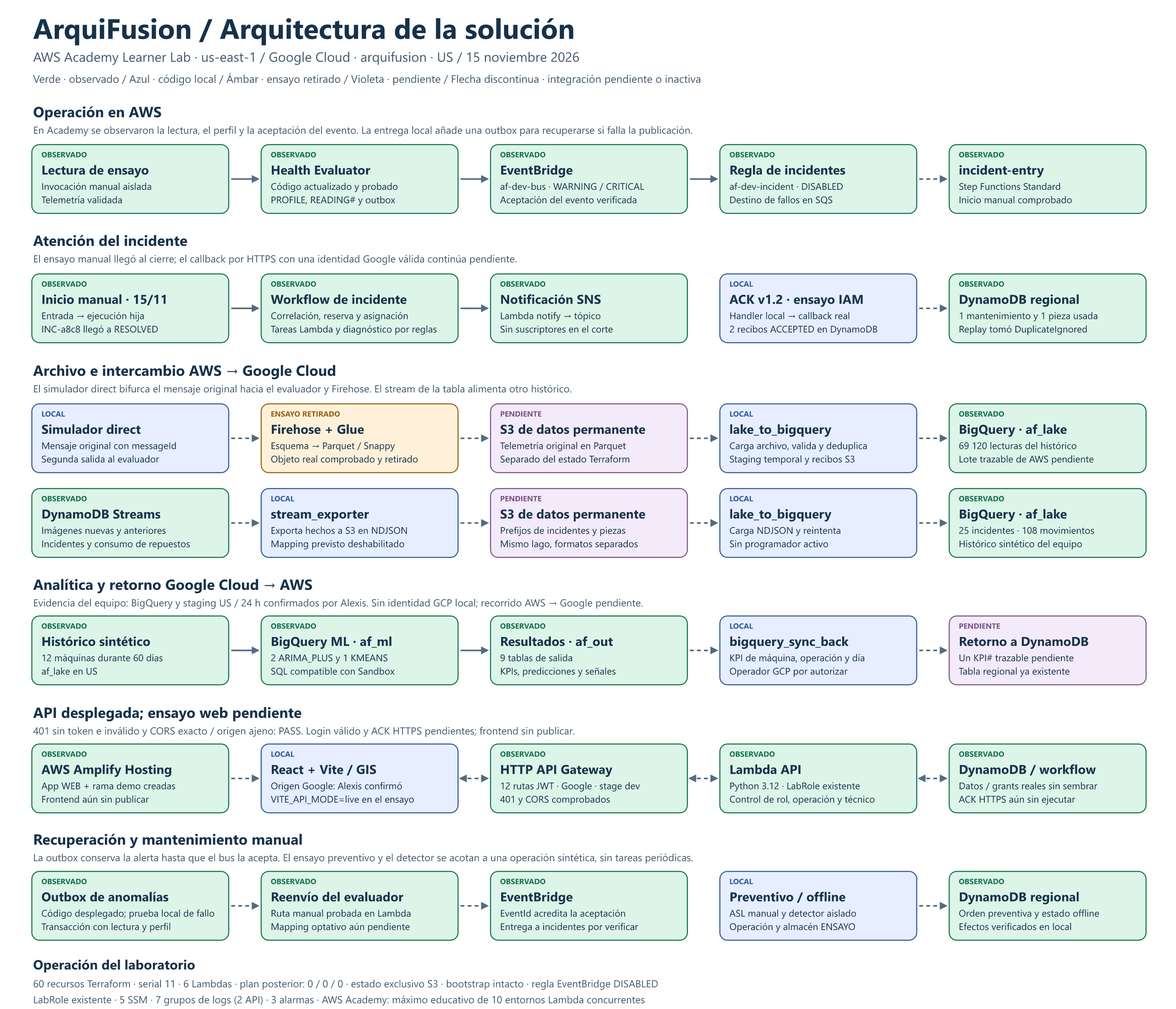
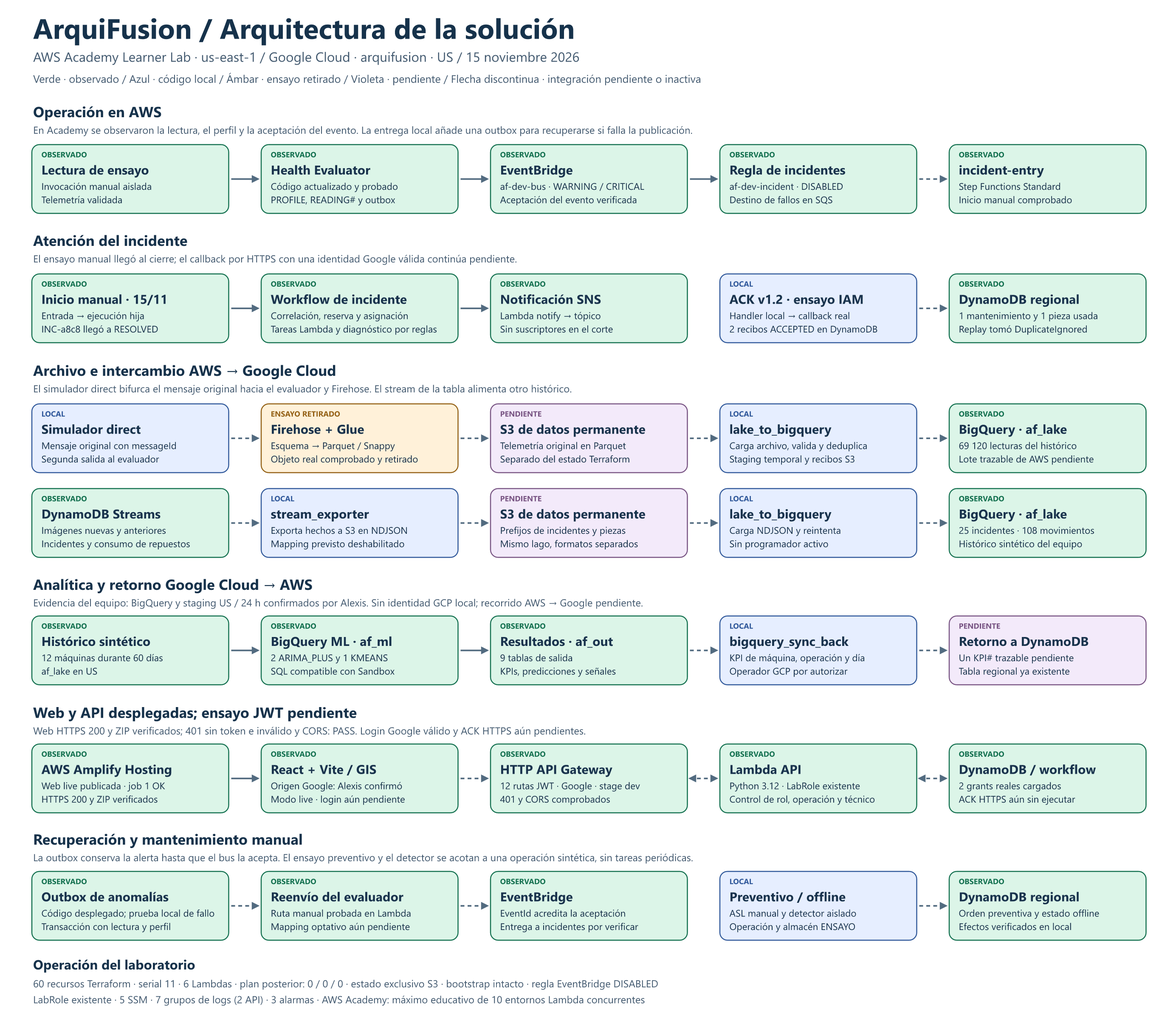
docs: reconcile live hosting and loaded demo participants

Changed region(s): [[0.0311, 0.6852, 0.4659, 0.7475], [0.2174, 0.7786, 0.3416, 0.8098], [0.0311, 0.7786, 0.1242, 0.8098]]

diff --git a/infra/hosting/release_live.py b/infra/hosting/release_live.py
@@ -201,7 +201,7 @@ def main():
     parser = argparse.ArgumentParser(description=__doc__)
     parser.add_argument("action", choices=["check", "prepare", "probe"])
     parser.add_argument("--terraform", default=shutil.which("terraform"))
-    parser.add_argument("--operation", default="MINA-NORTE")
+    parser.add_argument("--operation", default="ENSAYO-0001")
     parser.add_argument("--output", type=Path, default=ROOT / "build/readiness-20261115/web/live-release")
     parser.add_argument(
         "--send", action="store_true", help="Perform only the GET/OPTIONS probes; no token or POST is accepted"

diff --git a/docs/cierre-rol1-2026-11-15.md b/docs/cierre-rol1-2026-11-15.md
@@ -18,9 +18,11 @@ La aplicación partió de **29 recursos administrados**, serial 9. Después del 
 
 `main` en `09e4eff` pasó su [CI](https://github.com/alxgr-08/arquifusion/actions/runs/43752500505). [Explicación del cierre de #50](https://github.com/alxgr-08/arquifusion/pull/50#issuecomment-6899998693) · [Aviso final al equipo](https://github.com/alxgr-08/arquifusion/pull/54#issuecomment-6900125062)
 
+La continuación está publicada en el [PR #55](https://github.com/alxgr-08/arquifusion/pull/55), rama `infra/rol1-cierre-demo`. El primer corte `f9cdf115` pasó [CI Python/frontend](https://github.com/alxgr-08/arquifusion/actions/runs/43755932818) y [Terraform/paquetes Linux](https://github.com/alxgr-08/arquifusion/actions/runs/43755932793). Los siguientes commits deben conservar ese resultado en la cabeza del PR. El [comentario de coordinación](https://github.com/alxgr-08/arquifusion/issues/23#issuecomment-6900497358) mantiene las acciones del equipo.
+
 ## API: aplicación y comprobaciones posteriores completadas
 
-**APPLY COMPLETADO — código de salida 0.** Resultado real: **31 added, 0 changed, 0 destroyed**. URL: `https://8wrfp8ncbh.execute-api.us-east-1.amazonaws.com/dev`. Las consultas posteriores de AWS y HTTP pasaron. Un token Google válido y los callbacks ARRIVED/RESOLVED aún no se han ensayado: no están sembrados los datos y las concesiones reales.
+**APPLY COMPLETADO — código de salida 0.** Resultado real: **31 added, 0 changed, 0 destroyed**. URL: `https://8wrfp8ncbh.execute-api.us-east-1.amazonaws.com/dev`. Las consultas posteriores de AWS y HTTP pasaron. Los datos y las dos concesiones reales ya están cargados; falta que los participantes prueben su login Google y los callbacks ARRIVED/RESOLVED por HTTPS.
 
 El usuario autorizó aplicar **exclusivamente**:
 
@@ -37,7 +39,7 @@ Las altas son HTTP API, authorizer Google, Lambda API Python 3.12/`LabRole`, int
 
[1 lines of base64/hex data omitted]
 
-La revisión independiente confirmó 31/0/0 y 29 no-op antes de aplicar. El perfil público está en `infra/aws/api/ensayo-0001.tfvars.example`; un archivo de variables no concede autorización por sí solo. La aprobación actual no se extiende a datos, grants, publicación del frontend, lago, cargas BigQuery, retornos o simuladores.
+La revisión independiente confirmó 31/0/0 y 29 no-op antes de aplicar. El perfil público está en `infra/aws/api/ensayo-0001.tfvars.example`; un archivo de variables no concede autorización por sí solo. La aprobación inicial se limitó a la API. Posteriormente Leonardo aportó el archivo de participantes y pidió asumir la continuación, detener el otro chat y completar esa etapa. Se conciliaron la siembra/publicación ya realizadas y se crearon únicamente los dos grants faltantes. El lago, cargas BigQuery, retornos y nuevos simuladores conservan su revisión separada.
 
 AWS CLI confirmó Lambda Active/Successful, Python 3.12, `arn:aws:iam::975050277936:role/LabRole`, las dos variables esperadas sin bypass de autenticación, doce rutas JWT y doce permisos limitados por cuenta/API/stage/método/ruta. El authorizer tiene el issuer/audience acordados; la integración usa payload 2.0 y el stage limita a una solicitud por segundo con ráfaga de cuatro. DynamoDB sigue ACTIVE con protección de borrado.
 
@@ -52,6 +54,8 @@ Estas solicitudes no enviaron POST, tokens reales ni datos de usuarios; el gatew
 
[1 lines of base64/hex data omitted]
 
[1 lines of base64/hex data omitted]
+
 Los planes alternativos anteriores quedaron obsoletos tras esta aplicación. `plan_stage.py` se bloquea deliberadamente si espera 29 recursos y encuentra el inventario nuevo; no rebajar esa guarda ni aplicar el plan anterior para eludirla. La próxima planificación debe usar la base comprobada de 60 recursos y conservar las opciones API y hosting del perfil público de ensayo. El archivo local `infra/aws/api-open.auto.tfvars.json` conserva esos valores y está ignorado por Git; un checkout nuevo debe pasar explícitamente el perfil revisado.
 
 ## Dependencias que ya se resolvieron
@@ -59,7 +63,7 @@ Los planes alternativos anteriores quedaron obsoletos tras esta aplicación. `pl
 | Dependencia | Estado actual y evidencia |
 |---|---|
 | Origen Google | Alexis confirmó `https://demo.d2ygcm34t8aku9.amplifyapp.com` en el cliente web existente; conserva localhost para desarrollo. [Confirmación #41](https://github.com/alxgr-08/arquifusion/issues/41#issuecomment-6897046368) |
-| Hosting base | Aplicación Amplify `d2ygcm34t8aku9`, rama manual `demo`, ya creada y con HTTPS observado. **El frontend no está publicado.** |
+| Hosting | Aplicación Amplify `d2ygcm34t8aku9`, rama manual `demo`, con frontend live publicado y HTTPS observado. Job 1 SUCCEED; se cotejaron index y módulo de entrada con el ZIP preparado. |
 | Polling | #51 está integrado; el bloqueo de frecuencia anterior quedó corregido. Sigue siendo necesario observar 429/concurrencia con un usuario en el ensayo. |
 | Semillas de operación | #52 incorporó `seed_ensayo.py`, `conditional_seed.py` y metadata para la web, sin reemplazos ni SSM por defecto. Son herramientas; su integración no demuestra que se hayan ejecutado en esta cuenta. |
 | SQL de retorno | #53 está integrado y el paquete local se reconstruyó con la corrección. |
@@ -68,17 +72,25 @@ Los planes alternativos anteriores quedaron obsoletos tras esta aplicación. `pl
 
 La confirmación del propietario de staging no equivale a acceso de Leonardo. Su CLI local tiene cero cuentas activas, no hay ADC en la ubicación configurada ni variable explícita de credenciales. No se abrieron contenidos de credenciales ni se utilizaron llaves privadas. El perfil Terraform de staging ahora mantiene `enable_bridge_staging=false`; no recrear ni adoptar/importar el dataset existente sin coordinación y autorización.
 
-## ENSAYO-0001: preparado, todavía no sembrado
+## ENSAYO-0001: datos conciliados y dos participantes cargados
 
-El kit está en `build/cierre-demo-20261115/ensayo-0001/`, fuera de Git. Usa máquina `ENS-0001`, técnico `T-E0001`, zona `ZE` y almacén `WH-E0001`. Contiene siete filas previstas: metadata, zona, almacén, ajustes, perfil de máquina, perfil de técnico y una concesión **sintética local**. El preflight de lectura del corte devolvió **7 WOULD_CREATE y 0 conflictos**. No se aplicó la semilla y esa lectura debe repetirse antes de una futura escritura.
+El kit está en `build/cierre-demo-20261115/ensayo-0001/`, fuera de Git. Usa máquina `ENS-0001`, técnico `T-E0001`, zona `ZE` y almacén `WH-E0001`. Contiene siete filas: metadata, zona, almacén, ajustes, perfil de máquina, perfil de técnico y una concesión sintética. La primera lectura devolvió 7 WOULD_CREATE; una ejecución paralela las creó. Al asumir la continuación se comprobaron **7 SAME, sin conflictos**, y no se repitió la siembra.
 
-El grant sintético no concede acceso a una persona Google. Los grants reales siguen sin cargar. Alexis indicó que conserva fuera del repositorio el archivo de participantes: MAINT_LEAD y Sebastián como TECHNICIAN `T-E0001`; Leonardo debe aportar su propio `sub` si participará como SUPERVISOR. Se comparte únicamente el identificador estable por un canal privado, nunca JWT, access/refresh token o task token. [Coordinación del caso](https://github.com/alxgr-08/arquifusion/pull/50#issuecomment-6898009823)
+El grant sintético no concede acceso a una persona Google. Leonardo entregó la ruta privada del archivo de participantes. Su validación confirmó **dos grants distintos**: MAINT_LEAD y TECHNICIAN para `T-E0001`, ambos de `ENSAYO-0001`. Se crearon juntos mediante TransactWriteItems con condiciones de ausencia y se releyeron consistentemente: **2 creados, 0 sobrescritos, 0 eliminados**. Request ID: `8JTOBPIIUNGJOCOR2FGOF6NQP3VV4KQNSO5AEMVJF66Q9ASUAAJG`. No se modificaron roles IAM ni permisos de otras operaciones.
+
[1 lines of base64/hex data omitted]
+
+El archivo no incluye SUPERVISOR. Leonardo necesita aportar su propio `sub` si desea ese acceso; no se inventó ni reutilizó el de Alexis. [Coordinación del caso](https://github.com/alxgr-08/arquifusion/pull/50#issuecomment-6898009823)
 
 `preflight_web_demo.py` valida offline las siete claves, la operación/almacén, el filtro de stock aislado y la forma de los grants reales; rechaza plantillas incompletas sin imprimir identidades. No siembra ni consulta AWS. `seed_ensayo.py` permanece en dry-run sin `--apply`. El ensayo autorizado posterior debe mantener un solo caso en vuelo, no reutilizar máquinas de otros proyectos ni borrar historiales.
 
-## Frontend live preparado, sin publicación
+## Frontend live publicado y conciliado
 
[2 lines of base64/hex data omitted]
+
+La otra ejecución publicó la rama manual con **job 1 SUCCEED a las 15:06 de Lima**. Se detuvieron las acciones duplicadas y el otro chat quedó idle/interrumpido por pedido de Leonardo. El cotejo propio devolvió HTTPS 200 y confirmó que index.html y el módulo de entrada servido tienen los mismos bytes que el ZIP preparado. Ese módulo contiene la URL real, operación y Client ID acordados. No se creó un segundo job ni se volvió a sembrar el kit.
+
+La comprobación del navegador mostró **ArquiFusion Fleet Intelligence**, el mensaje de acceso y el botón Google renderizado. No se inició sesión ni se leyeron tokens. La URL para el equipo es **https://demo.d2ygcm34t8aku9.amplifyapp.com**.
 
 El primer intento detectó que el test de autenticación construía un supuesto token válido sin `aud`; fallaba al ejecutar las pruebas con el Client ID configurado. Se corrigió **solo el test**, aislando su configuración y usando audiencia explícita. `auth.ts` conserva el rechazo. Se añadieron comprobaciones de audiencia ausente/ajena y del margen exacto de expiración. Las **22 pruebas frontend pasaron en normal y live**, y TypeScript/Vite construyeron el paquete real. El intento fallido se conserva en `web-live/` para no ocultar el diagnóstico.
 
@@ -91,7 +103,7 @@ El primer intento detectó que el test de autenticación construía un supuesto 
[2 lines of base64/hex data omitted]
 
-El retorno nuevo pasó CRC, vinculación de fuentes, doce pruebas de servicio offline y smoke de fuentes Windows. El subconjunto KPI/relay pasó diez pruebas que se solapan con la suite; no se suman como 22 distintas. El entorno local no ejecutó un smoke nativo Linux; la CI del PR construye e importa los tres paquetes en Linux CPython 3.12 y debe revisarse su resultado. No se desplegaron los paquetes del puente ni se ejecutó un retorno real en esta preparación.
+El retorno nuevo pasó CRC, vinculación de fuentes, doce pruebas de servicio offline y smoke de fuentes Windows. El subconjunto KPI/relay pasó diez pruebas que se solapan con la suite; no se suman como 22 distintas. La CI Terraform enlazada confirmó la construcción y la importación nativa de los tres ZIP en **Linux x86_64 CPython 3.12**, con los mismos hashes locales. No se desplegaron los paquetes del puente ni se ejecutó un retorno real en esta preparación.
 
 La ruta de telemetría es simulador direct → Firehose/Glue → S3 Parquet → BigQuery. Streams exporta incidentes y consumo de repuestos. No se empaquetan PyArrow/pandas en Lambda. El ensayo temporal previo probó Parquet real, pero **el lago permanente sigue sin crear y sus recursos nuevos no están aprobados en esta autorización**. La propuesta del bucket y el futuro plan del lago conservan su revisión separada.
 
@@ -119,21 +131,21 @@ python infra/hosting/release_live.py probe --operation ENSAYO-0001 --terraform <
 
 La primera invocación agrupada de pruebas Python mezcló dos módulos `handler` de servicios y produjo cinco fallos de importación. La suite de BigQuery separada pasó; el runner del repositorio ya utiliza procesos independientes. No se cambió código de producción para ocultar ese conflicto del comando de pruebas.
 
-No atribuir a esta etapa un login Google real, siembra, callback HTTP válido, publicación web, nueva carga BigQuery, entrenamiento, entrega automática de EventBridge o recepción humana SNS. Un evento aceptado por el bus, un callback IAM local y un token validado por Gateway son evidencias diferentes.
+No atribuir a esta etapa un login Google real, callback HTTP válido, nueva carga BigQuery, entrenamiento, entrega automática de EventBridge o recepción humana SNS. La siembra/publicación ya se conciliaron y los dos grants se cargaron. Un evento aceptado por el bus, un callback IAM local y un token validado por Gateway son evidencias diferentes.
 
 ## Reparto actual y siguiente acción
 
 | Integrante | Completado | Pendiente exacto | Dependencia | Próxima acción | Referencia |
 |---|---|---|---|---|---|
-| Leonardo | IaC integrada, hosting base, API aplicada/verificada, 60 recursos sin drift, ZIP live y preflight preparados | Publicación web, siembra aprobada y plan nuevo del lago/puente sobre la base de 60 | Concesiones reales, sesión Academy vigente y aprobación específica de cada escritura restante | Revisar el ZIP de hash F996DDBE… y archivo de participantes; repetir preflight antes de sembrar | API README, perfil ENSAYO-0001, este relevo |
-| Sebastián | Backend/ASL y semillas condicionales integrados; metadata de operación preparada | Verificar participantes y técnico del caso, revisar semilla/grants y participar en ARRIVED/RESOLVED por web | API real, concesiones correctas y autorización del ensayo | Repetir preflight; acordar la carga condicional y confirmar un solo mantenimiento/consumo | #52, scripts/seed_ensayo.py, ensayo-lab |
-| Alexis | Origen Google confirmado, polling corregido, staging US/24h reportado, SQL #53 y consultas #54 integrados | Habilitar acceso del operador común a GCP o acordar división manual; entregar/verificar grants privados y generar KPI del mismo caso | Permisos reales, lectura AWS autorizada/cargada y sesión de los participantes | Confirmar operador y preflight de GCP; validar frontend live cuando se publique | #41, comentarios de #50, #51/#53/#54 |
+| Leonardo | IaC integrada, API aplicada/verificada, web live publicada/conciliada, siete filas SAME y dos grants reales cargados | Ensayo HTTP autenticado, su eventual grant SUPERVISOR y plan nuevo del lago/puente sobre la base de 60 | Login de participantes, su propio sub si participará, acceso GCP y aprobación del siguiente ensayo | Conservar los datos; coordinar un caso manual y preparar el plan del lago con la base actual | API README, perfil ENSAYO-0001, este relevo |
+| Sebastián | Backend/ASL y semillas integrados; datos y grant TECHNICIAN del caso disponibles | Iniciar sesión con su cuenta y participar en ARRIVED/RESOLVED por web | Incidente sintético iniciado en una etapa aprobada y asignado a T-E0001 | Verificar acceso, ETag y dos confirmaciones; comprobar un solo mantenimiento/consumo según el caso | #52, scripts/seed_ensayo.py, ensayo-lab |
+| Alexis | Origen Google, frontend publicado, grant MAINT_LEAD cargado, staging US/24h reportado y SQL integrado | Probar login/vista live y habilitar acceso GCP del operador común o acordar división manual; generar KPI del mismo caso | Permisos reales y lectura AWS autorizada/cargada | Entrar por la URL HTTPS y confirmar operador/preflight de GCP | #41, comentarios de #50, #51/#53/#54 |
 
 ## Orden seguro para cerrar la demo
 
 1. API y estado posterior ya verificados. Mantener la regla deshabilitada y los hashes del bootstrap intactos.
-2. Revisar la semilla y los grants reales de `ENSAYO-0001`; requieren su propia aprobación de escritura. Un 200 con lista vacía antes de sembrar no demuestra un fallo de infraestructura.
-3. El ZIP live ya está construido con URL real y hash registrado. Revisar y autorizar su publicación manual en la app/rama existentes; no activar builds automáticos.
+2. Datos del kit y dos grants ya disponibles. No volver a ejecutar los seed como si estuvieran ausentes. Si Leonardo participará como SUPERVISOR, revisar su identidad y concesión por separado.
+3. La web ya está publicada. Mantener los builds automáticos apagados y no crear otro job para repetir el mismo ZIP.
 4. Ejecutar el ensayo Google/JWT y de autorización por operación/técnico. Comprobar 401/403/412, repetición y recuperación de respuestas perdidas; después ARRIVED/RESOLVED sin duplicaciones.
 5. Revisar por separado el bucket y el plan del lago, luego el puente, una lectura trazable y el KPI del mismo caso. Usar las sesiones autorizadas y mantener la identidad y recibos originales ante un reintento.
 6. Actualizar evidencias y diagrama con lo realmente observado y grabar el video del recorrido aprobado. El histórico sintético y la nueva lectura se rotulan por separado.

diff --git a/docs/checklist-web-2026-11-15.md b/docs/checklist-web-2026-11-15.md
@@ -1,10 +1,14 @@
-# Web live y autenticación · preparación del 15/11/2026
+# Web live y autenticación · checklist verificado el 15/11/2026
 
 ## Qué está disponible
 
-AWS Academy Learner Lab, perfil `default`, región `us-east-1`. El hosting manual ya tiene la aplicación `d2ygcm34t8aku9`, rama `demo`, y origen `https://demo.d2ygcm34t8aku9.amplifyapp.com`. No está publicado el frontend. La aplicación comparte cuenta con otros proyectos y el curso limita la cuenta a diez entornos Lambda concurrentes. El ensayo será de un usuario y un incidente sintético. EventBridge debe permanecer `DISABLED`.
+AWS Academy Learner Lab, perfil `default`, región `us-east-1`. El frontend live está publicado en la aplicación `d2ygcm34t8aku9`, rama manual `demo`, y origen `https://demo.d2ygcm34t8aku9.amplifyapp.com`. La aplicación comparte cuenta con otros proyectos y el curso limita la cuenta a diez entornos Lambda concurrentes. El ensayo será de un usuario y un incidente sintético. EventBridge debe permanecer `DISABLED`.
 
-El plan de API preparado conserva los 29 recursos actuales y añade las doce rutas JWT del dashboard con endpoint cerrado. La web usa GIS y el JWT nativo de API Gateway, sin Cognito. El Client ID público real procede de #41; el rol y la operación proceden de registros DynamoDB confiables, nunca del selector de rol del navegador.
+La API HTTP ya está desplegada en `https://8wrfp8ncbh.execute-api.us-east-1.amazonaws.com/dev`, con el endpoint habilitado y las doce rutas protegidas por JWT. El cotejo de metadatos confirmó el emisor Google, la audiencia acordada y CORS para el origen exacto de Amplify. La web usa GIS y el JWT nativo de API Gateway, sin Cognito. El rol y la operación proceden de registros DynamoDB confiables, nunca del selector de rol del navegador.
+
+El corte de las 14:59 (Lima) registró los datos y la web pendientes. Después otra ejecución sembró las siete filas y publicó Amplify job 1, SUCCEED a las 15:06. Al asumir la continuación se comprobaron 7 SAME y que index/entrada JavaScript son idénticos al ZIP live revisado. Se crearon únicamente los dos grants faltantes en una transacción condicional y se verificó su contenido. La pantalla pública renderiza ArquiFusion y el botón Google. El login de los participantes y los callbacks HTTPS siguen pendientes. [Evidencia actual y coordinación](cierre-rol1-2026-11-15.md)
+
+La operación acordada es **`ENSAYO-0001`**. Alexis participará como `MAINT_LEAD` y Sebastián como `TECHNICIAN`, asignado a `T-E0001`. Leonardo solo tendrá acceso como `SUPERVISOR` cuando se prepare y cargue su concesión; el mensaje del compañero no concede ese rol. [Acuerdo de participantes y operación](https://github.com/alxgr-08/arquifusion/issues/23#issuecomment-6898434990)
 
 ## Preparación local de Leonardo
 
@@ -19,19 +23,19 @@ Comandos desde la raíz, sustituyendo `terraform` por la ruta del ejecutable si 
 ```powershell
 python infra/hosting/release_live.py check
 # Después de crear la API, para la operación cuya concesión se haya preparado:
-python infra/hosting/release_live.py prepare --operation MINA-NORTE --terraform terraform
-python infra/hosting/release_live.py probe --operation MINA-NORTE --terraform terraform
+python infra/hosting/release_live.py prepare --operation ENSAYO-0001 --terraform terraform
+python infra/hosting/release_live.py probe --operation ENSAYO-0001 --terraform terraform
 ```
 
 El directorio `build/readiness-20261115/web/` guarda evidencia local y queda excluido de Git. El build de comprobación sin una URL real se ejecuta en modo `mock`, se identifica como validación y no se publica. No se entrega un ZIP live con una URL inventada.
 
 ## Condiciones antes de publicar
 
-1. Leonardo autoriza y despliega el plan cerrado de la API; conserva 29 recursos previos y la regla deshabilitada.
-2. Alexis confirma en #41 que el origen exacto de Amplify está en **Authorized JavaScript origins** del cliente Google. No requiere intercambiar secretos OAuth.
-3. Sebastián revisa las concesiones de las personas de la demo para la operación acordada. Un TECHNICIAN debe tener `techId` y estar asignado al incidente. Cada persona usa su propia identidad Google.
-4. Leonardo revisa y autoriza un plan explícito de apertura y luego la publicación del ZIP cuyo hash figura en el manifiesto. Configurar el build `live` con la URL real que incluye `/dev`.
-5. Confirmar desde HTTPS carga de assets, navegación SPA y ausencia de errores de GIS/CORS. Google exige el mismo origen de navegador que se registró.
+1. Completado: API desplegada con endpoint habilitado y doce rutas JWT; la regla de incidentes sigue deshabilitada. No repetir el plan anterior como si la API aún no existiera.
+2. Completado: Alexis confirmó en #41 el origen exacto de Amplify en **Authorized JavaScript origins** del cliente Google. [Confirmación](https://github.com/alxgr-08/arquifusion/issues/41#issuecomment-6897046368)
+3. Completado: siete filas y dos grants de `ENSAYO-0001`. TECHNICIAN está vinculado a `T-E0001`; la asignación de un incidente se comprueba al iniciar el caso. Cada persona usa su identidad Google. El grant sintético del kit no permite login Google.
+4. Completado: ZIP live con la API `/dev`, `VITE_OPERATION_ID=ENSAYO-0001` y hash F996DDBE… publicado; no repetir el job ni activar builds automáticos.
+5. HTTPS, index/entrada y botón Google observados. Falta navegación con sesión real y revisión de GIS/CORS durante ese login.
 
 ## Ensayo de autenticación y autorización
 
@@ -45,15 +49,17 @@ El directorio `build/readiness-20261115/web/` guarda evidencia local y queda exc
 | CORS del origen aprobado | Preflight permite GET/POST, Authorization, Content-Type e If-Match. El navegador puede leer ETag y Retry-After en las respuestas de la API. |
 | Origen ajeno | No recibe cabecera Access-Control-Allow-Origin. CORS no sustituye a JWT ni grants. |
 
-Después de abrir la API con autorización, se pueden ejecutar los GET/OPTIONS del probe y guardar solo códigos HTTP, CORS y request IDs:
+Con la API ya desplegada, se pueden ejecutar los GET/OPTIONS del probe y guardar solo códigos HTTP, CORS y request IDs:
 
 ```powershell
-python infra/hosting/release_live.py probe --operation MINA-NORTE --terraform terraform --send
+python infra/hosting/release_live.py probe --operation ENSAYO-0001 --terraform terraform --send
 ```
 
 ## Ensayo del acuse, con escritura autorizada
 
 El kit de Sebastián prepara un único incidente sintético. No reutilizar máquinas o stock compartido. Los POST y las siembras de datos quedan fuera del probe de lectura y requieren la etapa de ensayo autorizada. [Runbook HTTP](../infra/aws/api/ensayo.md) · [Contrato v1.2](../contracts/api.md)
+
+Para acreditar **un consumo real de pieza** hace falta el caso 2: incluir `--with-stock` al revisar/autorizar la siembra (octava fila, una unidad de `BRG-SPH-22` en `WH-E0001`) y usar `anomaly-caso2-rodamiento.json`. La siembra básica de siete filas y el caso 1 de vibración no acreditan ese consumo. [Preparación del caso 2](ensayo-lab/README.md#caso-2-descuento-real)
 
 1. Entrar desde la web con Google, leer el detalle y conservar el ETag fuerte de la espera observada. Registrar solo códigos y IDs de solicitud; mantener JWT, task tokens y cuerpos privados fuera de logs, capturas e issues.
 2. Confirmar ARRIVED con ese ETag. Repetir un clic idéntico y comprobar un único recibo/efecto. Para RESOLVED volver a leer la nueva espera y usar su nuevo ETag.
@@ -62,12 +68,14 @@ El kit de Sebastián prepara un único incidente sintético. No reutilizar máqu
 5. Si se agotaron los intentos, conservar el incidente y los recibos y revisar la evidencia certificada del workflow. No interpretar una ejecución fallida como aceptación del acuse. La reconciliación debe confirmar el efecto antes de informar éxito.
 6. Tras RESOLVED comprobar un mantenimiento, un consumo por pieza, liberación de técnico y máquina y un ARRIVED/RESOLVED en el timeline. El caso de respuesta perdida se cubre primero en pruebas locales y después mediante un ensayo de fallo acordado, sin interrumpir recursos ajenos.
 
-La pantalla de máquina hace polling cerca de una solicitud por segundo; el stage limita a una por segundo y ráfaga de cuatro. Comprobar 429 con un usuario antes de aumentar tráfico. Ese throttling no impone por sí solo el límite educativo de concurrencia Lambda.
+El polling live se redujo cinco veces mediante #51; el stage limita a una solicitud por segundo y ráfaga de cuatro. Comprobar 429 con un usuario antes de aumentar tráfico. Ese throttling no impone por sí solo el límite educativo de concurrencia Lambda.
 
 ## Pendientes de cada rol
 
-- Leonardo: creación/apertura de API por planes aprobados, generación del ZIP con URL real, publicación autorizada y evidencia por HTTPS.
-- Alexis: confirmar el origen Google y validar la vista live. Su frontend y contratos permanecen intactos en esta preparación.
-- Sebastián: revisar la concesión y técnico real de demo y participar en las dos confirmaciones. Su backend permanece intacto.
+- Leonardo: API y web verificadas, kit conciliado y grants creados; coordinar el ensayo autenticado y el siguiente plan del lago/puente. Su grant SUPERVISOR aún no existe.
+- Alexis: origen Google y grant disponibles; iniciar sesión y validar la vista live como `MAINT_LEAD`. La corrección local del test de audiencia conserva `auth.ts` intacto.
+- Sebastián: grant del técnico `T-E0001` cargado; iniciar sesión y participar en las dos confirmaciones del caso autorizado. Su backend permanece intacto.
 
-El check local, tests y build no acreditan login válido, CORS de la API desplegada, callbacks HTTPS ni una publicación web. Esas evidencias siguen pendientes de las etapas anteriores.
+El check local, tests y build no acreditan login válido, CORS observado desde el navegador con sesión Google, callbacks HTTPS ni una publicación web. Los metadatos de la API confirman su configuración; esas evidencias de usuario siguen pendientes.
+
+El puente AWS → BigQuery → AWS conserva su ensayo real pendiente. Mostrar cada nube por separado es la alternativa ya prevista en [el guion, minuto 3:45](pitch.md); no acredita el intercambio bidireccional del diseño. Suprimir ese intercambio de la entrega sería un recorte de alcance que debe declararse, no una prueba del puente.

diff --git a/infra/hosting/README.md b/infra/hosting/README.md
@@ -1,6 +1,6 @@
 # Hosting de la SPA
 
-Amplify Hosting ya tiene la aplicación `af-dev-arquifusion-web` (`d2ygcm34t8aku9`) y su rama manual `demo` en AWS Academy, `us-east-1`. El origen es `https://demo.d2ygcm34t8aku9.amplifyapp.com`. La publicación del frontend y el registro de ese origen en Google siguen pendientes. Para un despliegue manual se entrega un ZIP con index.html y assets en la raíz, y una reescritura de rutas de la SPA hacia /index.html. [Arquitectura](../../docs/arquitectura.md) · [Despliegues manuales de Amplify](https://docs.aws.amazon.com/amplify/latest/userguide/manual-deploys.html)
[1 lines of base64/hex data omitted]
 
 ## Preparación live sin publicar
 
@@ -9,7 +9,7 @@ Amplify Hosting ya tiene la aplicación `af-dev-arquifusion-web` (`d2ygcm34t8aku
 ```powershell
 python infra/hosting/release_live.py check
 # Cuando exista la salida real incident_api_base_url del API desplegado:
-python infra/hosting/release_live.py prepare --operation MINA-NORTE --terraform terraform
+python infra/hosting/release_live.py prepare --operation ENSAYO-0001 --terraform terraform
 ```
 
 Si Terraform no está en PATH, pasar su ruta absoluta mediante `--terraform`. La herramienta no inventa una URL ni genera un ZIP live con un placeholder. El directorio de salida predeterminado es `build/readiness-20261115/web/live-release`, excluido de Git, y debe ser nuevo. `release.json` contiene solo configuración pública, SHA-256 y las condiciones pendientes de publicación. Crear el ZIP es local y no demuestra que el endpoint esté abierto, que Google tenga el origen o que el usuario tenga una concesión.
@@ -17,9 +17,9 @@ Si Terraform no está en PATH, pasar su ruta absoluta mediante `--terraform`. La
 El subcomando `probe` prepara por defecto cuatro solicitudes sin enviarlas. Después de abrir la API con un plan autorizado, `--send` comprueba dos GET sin identidad válida (401) y dos preflights OPTIONS para el acuse, con origen permitido y ajeno. No acepta tokens reales, no ejecuta POST, no sigue redirecciones ni lee cuerpos de respuesta. Los callbacks y el login válido se prueban aparte desde el navegador con el caso autorizado.
 
 ```powershell
-python infra/hosting/release_live.py probe --operation MINA-NORTE --terraform terraform
+python infra/hosting/release_live.py probe --operation ENSAYO-0001 --terraform terraform
 # Solo después de la apertura autorizada; exclusivamente GET/OPTIONS:
-python infra/hosting/release_live.py probe --operation MINA-NORTE --terraform terraform --send
+python infra/hosting/release_live.py probe --operation ENSAYO-0001 --terraform terraform --send
 ```
 
 [Checklist de preparación y ensayo](../../docs/checklist-web-2026-11-15.md) · [Plan de la API posterior al hosting](../aws/api/plan-hosting-2026-11-15.md)
@@ -85,4 +85,4 @@ El contrato v1.2 devuelve el `ETag` de la espera en el GET de detalle y exige es
 
 ## Preparar el origen HTTPS de la demo
 
-El plan de hosting autorizado creó únicamente `af-dev-arquifusion-web` (Amplify WEB) y su rama manual `demo`; los 27 recursos anteriores quedaron sin cambios. El estado actual contiene 29 recursos. Conservar `prepare_manual_web_hosting=true` en los planes posteriores. Terraform configura la misma reescritura del empaquetador. La app omite repositorio Git, tokens y rol; mantiene apagados los builds automáticos y previews. `manual_web_origin` ya identifica el origen que se comunicó a Alexis en #41. La entrega del ZIP y la apertura de la API corresponden a etapas posteriores. [Terraform](../aws/hosting.tf) · [Pruebas](../aws/tests/hosting.tftest.hcl) · [Aviso a Alexis](https://github.com/alxgr-08/arquifusion/issues/41#issuecomment-6893328895)
+El alta inicial creó únicamente la app y rama Amplify y llevó el inventario de 27 a 29. La API posterior lo llevó a **60 recursos**; endpoint y frontend live ya están disponibles. Conservar API y `prepare_manual_web_hosting=true` en los planes siguientes. Terraform configura la reescritura SPA. La app omite repositorio Git, tokens y rol y mantiene apagados los builds automáticos y previews. [Terraform](../aws/hosting.tf) · [Pruebas](../aws/tests/hosting.tftest.hcl) · [Relevo actual](../../docs/cierre-rol1-2026-11-15.md)

diff --git a/docs/arquitectura.md b/docs/arquitectura.md
@@ -13,8 +13,8 @@ Corte del 15 de noviembre de 2026. ArquiFusion ayuda a mantenimiento y operacion
 | S3 → staging → af_lake | **IMPLEMENTADO Y VERIFICADO en local** con Parquet del ensayo y dobles de S3/BigQuery. Se cargan los bytes originales y se deduplica por identidad. Alexis confirmó `af_bridge_stage` en US, con TTL de tablas de 24 h. | Falta una identidad autorizada en ambas nubes para el relay actual. Verificar job, fila y repetición en GCP. No recrear staging ni presentarlo como inspección propia de Leonardo. [Acceso y procedimiento](../infra/gcp/cierre-puente-2026-11-15.md) |
 | Histórico → BigQuery ML → af_out | **IMPLEMENTADO Y VERIFICADO en GCP** según la inspección del paquete de contexto del 15/11. En US se observaron 69 120 lecturas, 25 incidentes, 108 movimientos, 3 modelos y 9 tablas de salida. | Ligar una lectura reciente de AWS por máquina y periodo a un resultado. Vigilar expiración de datasets/tablas del Sandbox. |
 | af_out → DynamoDB | **PARCIAL**. La Lambda optativa retorna un KPI de máquina/operación/día con identidad WIF y escritura condicional. El ensayo manual puede usar una identidad humana autorizada y los mismos recibos. El retorno general de referencias y pronósticos es una ruta histórica explícita. | Demostrar una selección sintética acotada, su escritura y su lectura desde la web. |
-| Google → navegador → HTTP API → Lambda | **API DESPLEGADA, ENSAYO AUTENTICADO PENDIENTE**. La aplicación autorizada añadió 31 recursos y conservó los 29 anteriores. API abierta con doce rutas JWT, integración Lambda Python 3.12/LabRole, stage `dev`, logs y permisos limitados. Usa la operación `ENSAYO-0001`. La SPA conserva el ETag revisado; el backend consulta concesiones por identidad estable y operación. | Validar las concesiones reales, sembrar el caso autorizado y ensayar login Google, 403 y callbacks por HTTPS con el técnico asignado. Una ruta protegida desplegada no demuestra ese recorrido. [Relevo y evidencia actual](cierre-rol1-2026-11-15.md) |
-| Amplify Hosting | **APP Y RAMA DESPLEGADAS**. Aplicación WEB `af-dev-arquifusion-web`, app ID `d2ygcm34t8aku9`, rama manual `demo`, sin builds automáticos. Origen `https://demo.d2ygcm34t8aku9.amplifyapp.com`. Alexis confirmó su registro en Google. No hay publicación del frontend. | Revisar y autorizar el ZIP live construido con la URL real de API y `ENSAYO-0001`. Firebase conserva su condición de alternativa. |
+| Google → navegador → HTTP API → Lambda | **API DESPLEGADA, ENSAYO AUTENTICADO PENDIENTE**. La aplicación autorizada añadió 31 recursos y conservó los 29 anteriores. Doce rutas JWT, Lambda Python 3.12/LabRole, stage `dev`, logs y permisos limitados. Usa `ENSAYO-0001`, cuyo kit y dos grants MAINT_LEAD/TECHNICIAN ya están cargados. La SPA conserva el ETag revisado; el backend consulta permisos por identidad estable y operación. | Ensayar login Google, 403 y callbacks por HTTPS con el técnico asignado. El login real de cada participante no se sustituye por cargar su grant. [Relevo y evidencia actual](cierre-rol1-2026-11-15.md) |
+| Amplify Hosting | **FRONTEND LIVE PUBLICADO**. Aplicación WEB `af-dev-arquifusion-web`, app ID `d2ygcm34t8aku9`, rama manual `demo`, sin builds automáticos. Job 1 SUCCEED. `https://demo.d2ygcm34t8aku9.amplifyapp.com` responde 200; index y entrada JavaScript coinciden con el ZIP revisado. Se observó el botón Google renderizado. | Los participantes deben iniciar sesión y revisar datos/acuse. Firebase conserva su condición de alternativa. |
 | Preventivo, offline y vista de la flota en vivo | **IMPLEMENTADOS SIN VALIDAR en cloud**. El ASL original, detector y vistas cuentan con pruebas locales. El módulo opcional añade una Lambda, su log y un workflow Standard para una operación ENSAYO. [Guía del preventivo y el detector](../infra/aws/maintenance/README.md) | Ensayar cada función por separado. Una vista simulada debe rotularse como tal. |
 | Réplica interregional, Cognito, IoT como ingreso obligatorio y diagnóstico obligatorio en Bedrock | **OBSOLETOS para esta demo**. El diseño usa tabla regional con PITR, GIS, modo direct y diagnóstico por reglas. | Las alternativas históricas no forman parte del recorrido evaluado. |
 

diff --git a/infra/aws/api/README.md b/infra/aws/api/README.md
@@ -55,7 +55,7 @@ ack_frontend_origin      = "http://localhost:5173"
 
[1 lines of base64/hex data omitted]
 
-El endpoint exige JWT incluso mientras faltan los datos del ensayo y las concesiones reales. La API usa `ENSAYO-0001`; los usuarios necesitan una concesión para esa operación, y TECHNICIAN debe corresponder a `T-E0001`. No reutilizar automáticamente permisos de `MINA-NORTE`. La preparación offline usa los scripts de Sebastián y rechaza plantillas de participantes incompletas:
+El endpoint exige JWT. El kit `ENSAYO-0001` y dos concesiones reales ya están cargados; TECHNICIAN corresponde a `T-E0001`. La web live está publicada y falta que los participantes prueben login y acuse por HTTPS. No reutilizar automáticamente permisos de `MINA-NORTE`. La preparación offline usa los scripts de Sebastián y rechaza plantillas incompletas; para otra corrida generar un directorio nuevo, sin reescribir el kit ya cargado:
 
 ```powershell
 python infra/aws/incident/preflight_web_demo.py prepare --kit build/ensayo-0001
@@ -79,11 +79,11 @@ python infra/aws/api/review_plan.py build/terraform-review/ensayo-flota.tfplan -
 
 Los nombres de archivo son ejemplos para los planes recién generados. Para un origen HTTPS registrado, añadir `--origin` con su valor exacto. El cliente live conserva el ETag de la espera mostrada, lo envía en `If-Match` y lee `Retry-After`. [Cliente del frontend](../../../frontend/src/api/client.ts)
 
-### Preparación posterior al hosting
+### Revisión histórica posterior al hosting
 
-Amplify ya administra la aplicación `af-dev-arquifusion-web` y la rama manual `demo`. El origen reservado es `https://demo.d2ygcm34t8aku9.amplifyapp.com`. Alexis debe confirmar su registro en Google. Mientras responde, el perfil de revisión [hosting-review.tfvars.example](hosting-review.tfvars.example) prepara las 12 rutas del dashboard con el endpoint cerrado. El CORS exacto no demuestra por sí solo que Google haya autorizado el origen.
+El perfil [hosting-review.tfvars.example](hosting-review.tfvars.example) conserva la revisión cerrada anterior a la confirmación de Alexis. Sus conteos de 31 altas y 29 no-op corresponden a esa fotografía. No aplicarlo a la base actual de 60 recursos como si faltara crear la API. La confirmación Google, el plan abierto autorizado y la publicación live están registrados en la sección de despliegue de esta guía y el relevo.
 
-Después del hosting, los planes anteriores basados en 27 recursos quedaron obsoletos. Conservar `prepare_manual_web_hosting=true` al regenerar cualquier etapa y utilizar `--existing-hosting` para su revisión. El perfil completo debe proponer 31 altas de API, cero cambios/bajas y 29 no-op. El endpoint se abrirá con otro plan revisado cuando se confirme el origen y se autorice el ensayo. [Plan y comprobaciones actuales](plan-hosting-2026-11-15.md)
+Conservar API y `prepare_manual_web_hosting=true` al regenerar cualquier etapa. La instrucción siguiente solo ilustra cómo se revisó el archivo cerrado histórico; no es el próximo despliegue. [Informe histórico](plan-hosting-2026-11-15.md) · [Estado actual](../../../docs/cierre-rol1-2026-11-15.md)
 
 ```powershell
 python infra/aws/api/review_plan.py build/api-hosting-20261115/api-dashboard-closed.tfplan --expect closed --fleet-reads --existing-hosting --origin https://demo.d2ygcm34t8aku9.amplifyapp.com

diff --git a/docs/ONBOARDING.md b/docs/ONBOARDING.md
@@ -18,7 +18,7 @@ npm --prefix frontend test -- --run
 npm --prefix frontend run build
 ```
 
-El frontend usa `mock` por defecto. Para el ensayo autorizado utiliza `live`, el client ID público, el origen Amplify ya confirmado en Google y la URL real de la API con stage. La operación acordada es `ENSAYO-0001`; su kit está preparado pero aún no se sembró y los grants reales no se cargaron. En desarrollo, los servicios se prueban con fakes/moto sin sesión cloud. Los tokens y secretos no pertenecen a las variables Vite.
+El frontend usa `mock` por defecto en desarrollo. La web publicada usa `live`, el client ID público, el origen Amplify registrado en Google y la API real con stage. `ENSAYO-0001` ya tiene sus siete filas conciliadas y dos grants reales cargados; falta el ensayo de login y acuse HTTPS. En desarrollo, los servicios se prueban con fakes/moto sin sesión cloud. Los tokens y secretos no pertenecen a las variables Vite.
 
 ## Operación
 
@@ -30,4 +30,4 @@ La IaC de Leonardo y las correcciones de los tres roles están en `main` mediant
 
 Google ya tiene registrado el origen `https://demo.d2ygcm34t8aku9.amplifyapp.com`. Alexis reportó `arquifusion.af_bridge_stage` en US con vencimiento de tablas de 24 horas. La CLI de Leonardo está instalada pero sin identidad Google local: esa comprobación del propietario no sustituye el preflight de la futura sesión del operador. El ejemplo Terraform de staging mantiene su creación deshabilitada para evitar proponer otra alta del dataset existente.
 
[2 lines of base64/hex data omitted]

diff --git a/infra/gcp/cierre-puente-2026-11-15.md b/infra/gcp/cierre-puente-2026-11-15.md
@@ -13,7 +13,7 @@ El ZIP anterior de `bigquery-sync-back` no contenía esa corrección. Se reconst
[2 lines of base64/hex data omitted]
 
-El paquete nuevo ocupa 35.771.190 bytes, 77.970.602 expandido. CRC y vinculación de la fuente con el checkout pasaron; no incluye PyArrow ni pandas. Pasaron **12 pruebas del servicio de retorno**, y otras **10 del conjunto seleccionado KPI/relay**, ambas con sockets bloqueados. Los conjuntos se solapan y no representan 22 pruebas distintas. El smoke de fuentes pasó en Windows; una nueva importación nativa Linux corresponde a la CI del siguiente corte, no se simula como comprobación local.
+El paquete nuevo ocupa 35.771.190 bytes, 77.970.602 expandido. CRC y vinculación de la fuente con el checkout pasaron; no incluye PyArrow ni pandas. Pasaron **12 pruebas del servicio de retorno** y **10 del conjunto seleccionado KPI/relay**, con sockets bloqueados. Los conjuntos se solapan y no suman 22 distintas. El smoke de fuentes pasó en Windows. La [CI Terraform del PR #55](https://github.com/alxgr-08/arquifusion/actions/runs/43755932793) reconstruyó e importó los tres ZIP en **Linux x86_64 CPython 3.12**, con hashes iguales a los locales.
 
 La evidencia detallada está en `build/cierre-demo-20261115/bridge/validation.json`, excluida de Git. No se desplegó el ZIP ni se ejecutó el retorno en ninguna nube.
 
@@ -74,7 +74,7 @@ La vía más directa con el código actual es autorizar a un operador común par
 
 ## Responsables y siguiente acción
 
-- **Leonardo:** conserva la copia actual del paquete, revisa/despliega el lago y los componentes que se autoricen, y mantiene los 29 recursos existentes y EventBridge DISABLED al preparar cada nueva etapa. Concilia y regenera planes después de cualquier despliegue.
+- **Leonardo:** conserva los paquetes y prepara el lago y componentes que se autoricen sobre los **60 recursos actuales**, incluida la API y el hosting. Mantiene EventBridge DISABLED. Concilia y regenera los planes antiguos después del despliegue.
 - **Alexis:** confirma cómo obtiene acceso Google el operador común o acuerda el protocolo de dos operadores; genera el KPI del caso nuevo. Staging y corrección #53 ya están reportados como resueltos.
 - **Sebastián:** prepara/revisa la operación de demo y sus grants para la lectura web; su simulador direct ya puede producir la lectura completa sin desplegar un proceso periódico.
 

diff --git a/README.md b/README.md
@@ -16,7 +16,7 @@ New here? Start with [`docs/ONBOARDING.md`](docs/ONBOARDING.md).
 
 AWS Academy opera la telemetría e incidentes. Google Cloud analiza el histórico con BigQuery ML. El simulador direct alimenta el evaluador y el archivo Parquet. La API utiliza Google Sign-In, un JWT authorizer y concesiones por operación en DynamoDB. El recorrido manual de incidentes y la analítica con histórico sintético tienen evidencia independiente.
 
-La entrega de infraestructura ya está integrada en `main` mediante #52; #50 se cerró como duplicado. #51 reduce el polling live, #53 corrige la consulta seleccionada de retorno y #54 añade las consultas del pitch. Alexis confirmó el origen HTTPS de Google y el staging BigQuery US con TTL de 24 horas. El plan API autorizado terminó con 31 altas, cero cambios y cero bajas; la URL es `https://8wrfp8ncbh.execute-api.us-east-1.amazonaws.com/dev`. Sus verificaciones posteriores se registran en el relevo; los datos/grants de `ENSAYO-0001`, la publicación web y el recorrido real entre nubes conservan sus etapas separadas.
+La entrega de infraestructura está en `main` mediante #52; #50 se cerró como duplicado. #51 reduce el polling live, #53 corrige el retorno y #54 añade consultas del pitch. La API autorizada creó 31 recursos conservando los 29 anteriores: `https://8wrfp8ncbh.execute-api.us-east-1.amazonaws.com/dev`. La [web live](https://demo.d2ygcm34t8aku9.amplifyapp.com) ya está publicada; los datos de `ENSAYO-0001` y dos grants de participantes están cargados. Faltan el ensayo de login/acuse real y el recorrido entre nubes. Alexis confirmó el origen Google y staging US/24h.
 
 [Relevo actual de Rol 1 y siguientes pasos](docs/cierre-rol1-2026-11-15.md) · [Arquitectura por componente](docs/arquitectura.md) · [Diagrama editable](docs/architecture.drawio) · [PNG](docs/architecture.png) · [Preparación anterior](docs/rol1-listo-2026-11-15.md) · [Ensayo previo](docs/revision-nocturna-2026-11-15.md)
 

diff --git a/infra/aws/README.md b/infra/aws/README.md
@@ -4,6 +4,8 @@ Arquitectura vigente y evidencias por entorno: [ArquiFusion](../../docs/arquitec
 
 AWS Academy Learner Lab, perfil `default`, región `us-east-1`. El estado de la aplicación, el bootstrap y los archivos de datos tienen ciclos de vida separados.
 
+**Corte actual:** 60 recursos tras la API autorizada; hosting live, kit `ENSAYO-0001` y dos grants ya disponibles. EventBridge sigue DISABLED y el bootstrap conserva sus hashes. Los planes antiguos contra 27/29 recursos son históricos. Conservar API y hosting al planificar de nuevo y revisar el [relevo del cierre](../../docs/cierre-rol1-2026-11-15.md) antes de ejecutar los procedimientos iniciales de esta guía.
+
 ## Preparación del primer despliegue
 
 La auditoría de solo lectura y el plan de integración están en

diff --git a/infra/aws/api/plan-hosting-2026-11-15.md b/infra/aws/api/plan-hosting-2026-11-15.md
@@ -1,5 +1,7 @@
 # Plan de API después del hosting · 15/11/2026
 
+**Informe histórico anterior al despliegue.** La API abierta ya fue aplicada con otro plan y el estado tiene 60 recursos. No aplicar las alternativas de este documento. [Despliegue, web y participantes actuales](../../../docs/cierre-rol1-2026-11-15.md)
+
 ## Entorno y alcance
 
 Preparación local de Leonardo, Rol 1, en `infra/rol1-entrega-academy`, commit `9d2994b1d535d0a021e0e7f26874925060d42638`. `git fetch origin` mantiene `origin/main` en `53f9755`; la rama está tres commits por delante y cero por detrás. No se integraron ramas ni se hicieron commits o push en esta etapa.
